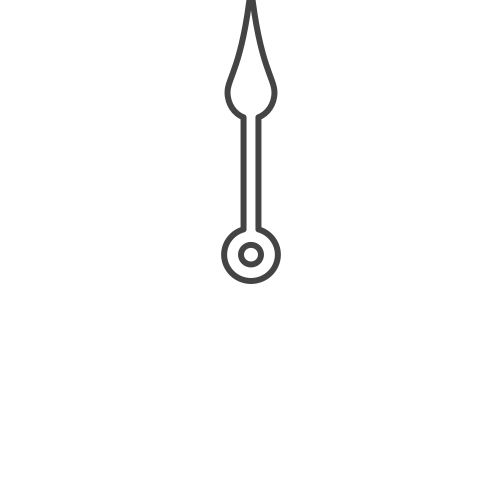
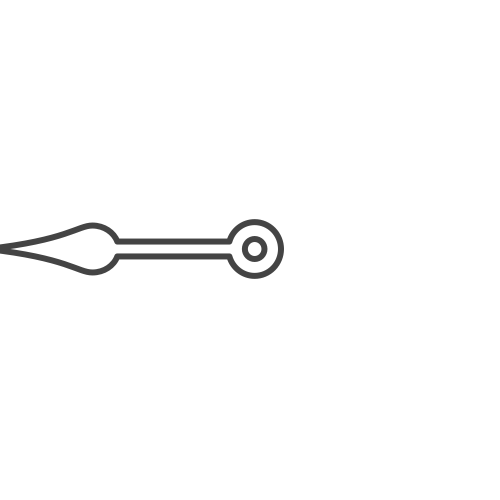
時計の追加

Changed region(s): [[0.0, 0.0, 0.57, 0.57]]

diff --git a/GFFAWARD2023/UI.cpp b/GFFAWARD2023/UI.cpp
@@ -4,7 +4,7 @@ UI ui;
 
 UI::UI() {
 	TimeLimit = 60;
-	Time = TimeLimit / 20;
+	Time = TimeLimit / 12;
 	x = 0;
 	Angle = 0;
 }
@@ -14,12 +14,10 @@ int UI::ClockNeedleMove() {
 
 	if (Timer % Time == 0) {
 		
-		angle = Angle + (DX_PI / 6 * x);
-
+		angle = Angle + (DX_PI / 2 * x);
 		
 		rotation2D(&X, &Y, 400, 100, 400, 300, angle);
 
-		
 		Angle += DX_TWO_PI / 720;
 		if (Angle > DX_TWO_PI)Angle -= DX_TWO_PI;
 	}
@@ -27,6 +25,9 @@ int UI::ClockNeedleMove() {
 }
 
 int UI::UIDraw() {
+	DrawRotaGraph(150, 150, 1, DX_PI / 180 * 0, img_clock, TRUE, FALSE);
+	DrawRotaGraph(225, 125, 0.1, DX_PI / 180 * 0, img_sun, TRUE, FALSE);
+	DrawRotaGraph(75, 125, 0.1, DX_PI / 180 * 0, img_moon, TRUE, FALSE);
 	DrawRotaGraph(150, 150, 0.5, angle, img_clockneedle, TRUE, FALSE);
 
 	return 0;

diff --git a/GFFAWARD2023/main.cpp b/GFFAWARD2023/main.cpp
@@ -598,6 +598,9 @@ int LoadImages()
     if ((g_cursor_image = LoadGraph("images/cursor mini.png")) == -1) return -1;
     if ((g_white_image = LoadGraph("images/white.png")) == -1) return -1;
     if ((ui.img_clockneedle = LoadGraph("images/clock needle.png")) == -1)return-1;
+    if ((ui.img_clock = LoadGraph("images/clock2.png")) == -1)return-1;
+    if ((ui.img_sun = LoadGraph("images/sun.png")) == -1)return-1;
+    if ((ui.img_moon = LoadGraph("images/moon.png")) == -1)return-1;
     //if ((g_jump_image = LoadGraph("images/jump.png")) == -1) return -1;
     if ((g_haikei_image = LoadGraph("images/haikei.jpg")) == -1) return -1;
 

diff --git a/GFFAWARD2023/UI.h b/GFFAWARD2023/UI.h
@@ -1,6 +1,8 @@
 #pragma once
 #include"DxLib.h"
 #include"math.h"
+#include"stdlib.h"
+#define _USE_MATH_DEFINES
 #define PI 3.1415926535897932384626433832795f
 
 class UI {
@@ -8,10 +10,14 @@ public:
 	int Timer;
 	float TimeLimit;
 	int Time;
-	int img_clockneedle;
 	float x;
 	int X, Y;
 	double Angle, angle;
+
+	int img_clockneedle;
+	int img_clock;
+	int img_sun;
+	int img_moon;
 
 	UI();
 	int ClockNeedleMove();
